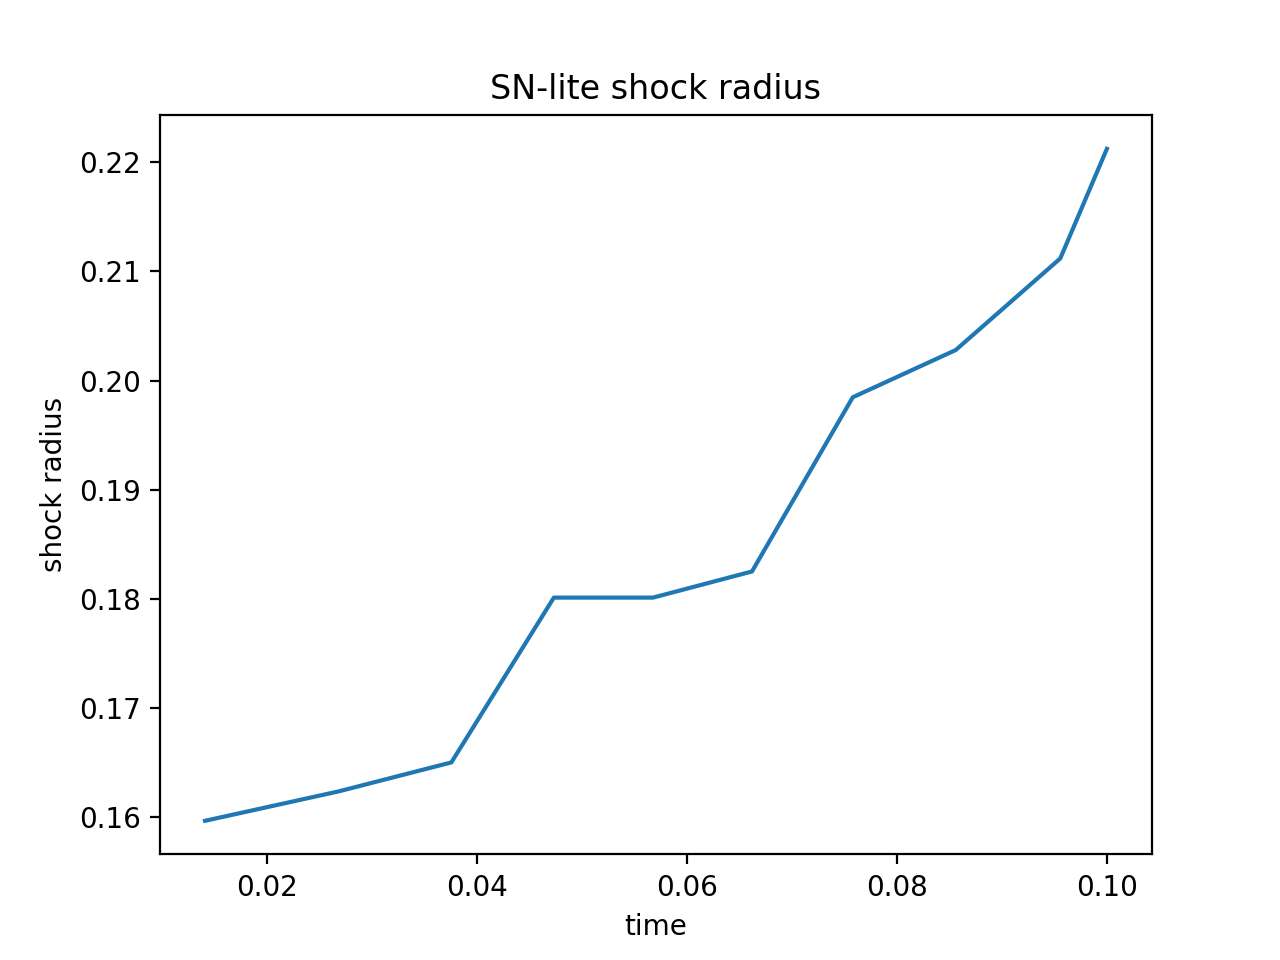
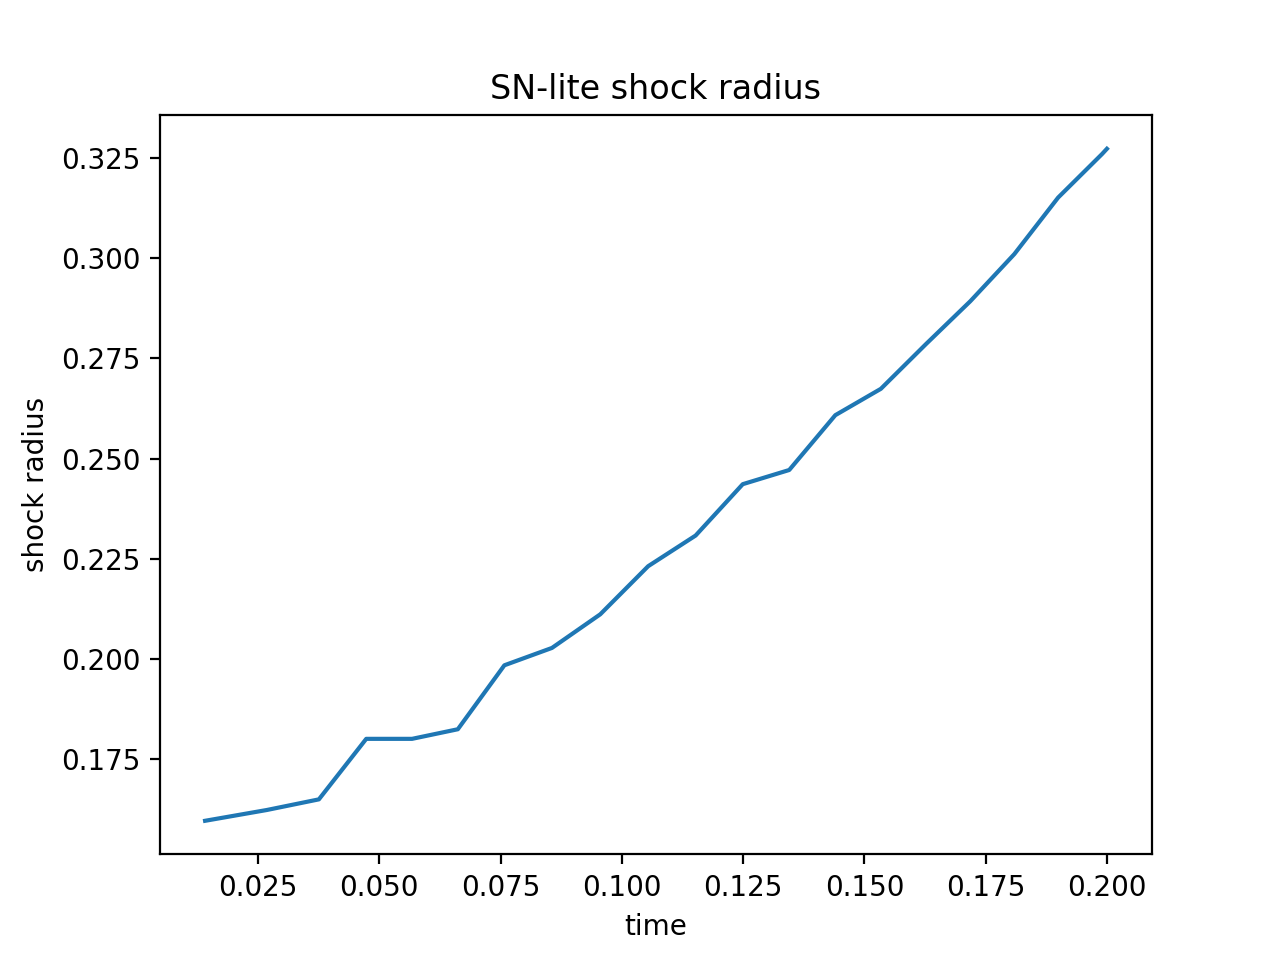
Refine doc validation runs and clean LaTeX warnings

diff --git a/docs/astrofd.tex b/docs/astrofd.tex
@@ -192,9 +192,10 @@ S_D &= 0, \\
 S_{S_j} &= \frac{\alpha}{2} T^{\mu\nu} \partial_j g_{\mu\nu}, \\
 S_{\tau} &= \alpha \left(T^{\mu 0} \partial_\mu \ln \alpha - T^{\mu\nu} \Gamma^0_{\mu\nu}\right),
 \end{align}
-where $\Gamma^\alpha_{\mu\nu}$ are the Christoffel symbols. AstroFD uses
-analytic fixed metrics (Minkowski, Schwarzschild, Kerr-Schild) and
-computes these source terms from the prescribed background.
+{\raggedright where $\Gamma^\alpha_{\mu\nu}$ are the Christoffel symbols.
+AstroFD uses analytic fixed metrics: Minkowski, Schwarzschild, and
+Kerr--Schild. These provide the background terms used to compute the
+sources.\par}
 
 \paragraph{Magnetic 4-vector relations.}
 In ideal RMHD, the lab-frame magnetic field $B^i$ and 4-vector $b^\mu$ are

diff --git a/tools/gen_config_table.py b/tools/gen_config_table.py
@@ -97,7 +97,7 @@ def main():
         f.write("\\small\n")
         f.write("\\setlength{\\tabcolsep}{4pt}\n")
         f.write("\\begin{longtable}{p{0.32\\linewidth} p{0.15\\linewidth} p{0.45\\linewidth}}\n")
-        f.write("\\caption{Full configuration parameter defaults (from utils/settings.py).}\\\\label{tab:config-full}\\\\\n")
+        f.write("\\caption{Configuration parameter defaults (utils/settings.py).}\\\\label{tab:config-full}\\\\\n")
         f.write("\\hline\n")
         f.write("Key & Default & Notes \\\\\n")
         f.write("\\hline\n")

diff --git a/docs/figures/validation_summary.tex b/docs/figures/validation_summary.tex
@@ -4,12 +4,12 @@
 \hline
 Metric & Value \\ 
 \hline
-Max Lorentz factor & 1.128e+00 \\ 
-Max signal speed & 7.736e-01 \\ 
+Max Lorentz factor & 1.377e+00 \\ 
+Max signal speed & 8.127e-01 \\ 
 Mean inlet flux (abs) & 0.000e+00 \\ 
 divB max & N/A \\ 
 divB rms & N/A \\ 
-SN shock radius max & 2.212e-01 \\ 
+SN shock radius max & 3.273e-01 \\ 
 SN heating efficiency mean & 0.000e+00 \\ 
 \hline
 \end{tabular}

diff --git a/docs/figures/config_table.tex b/docs/figures/config_table.tex
@@ -1,7 +1,7 @@
 \small
 \setlength{\tabcolsep}{4pt}
 \begin{longtable}{p{0.32\linewidth} p{0.15\linewidth} p{0.45\linewidth}}
-\caption{Full configuration parameter defaults (from utils/settings.py).}\\label{tab:config-full}\\
+\caption{Configuration parameter defaults (utils/settings.py).}\\label{tab:config-full}\\
 \hline
 Key & Default & Notes \\
 \hline
